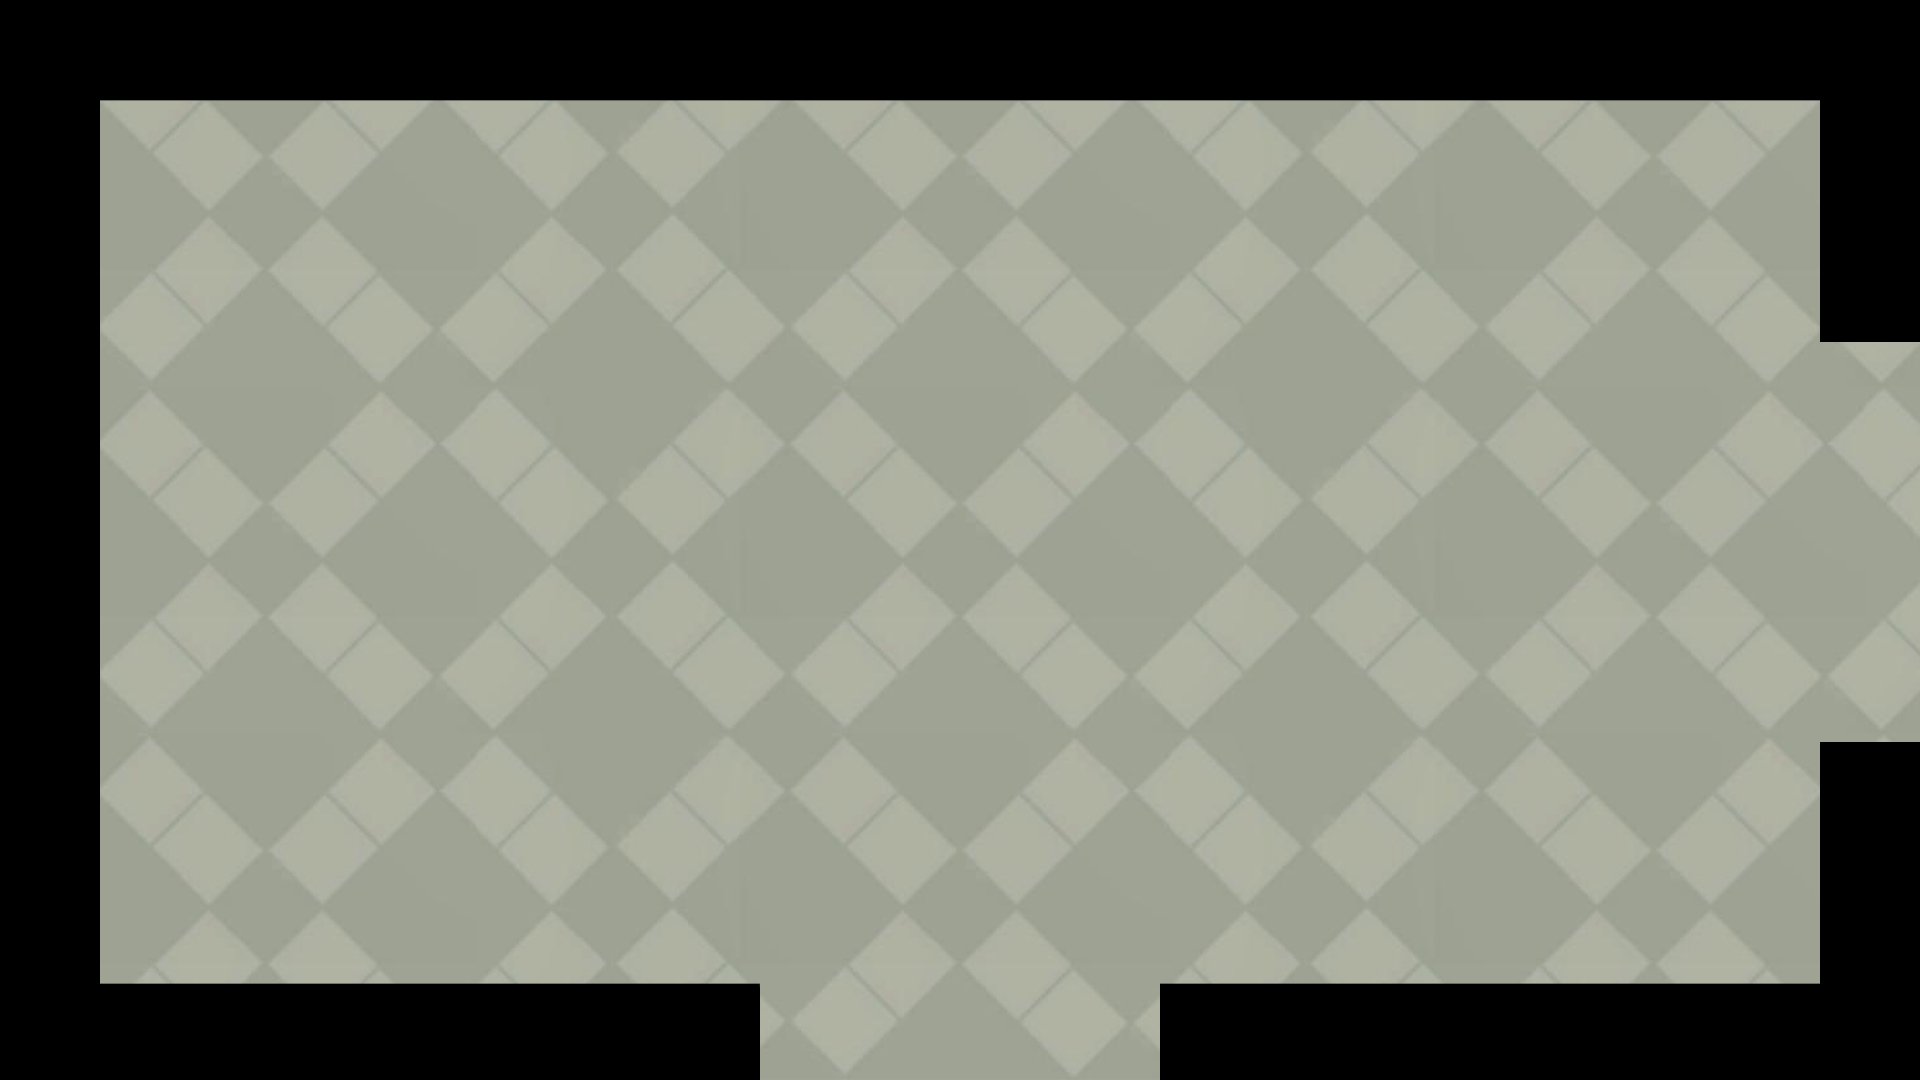
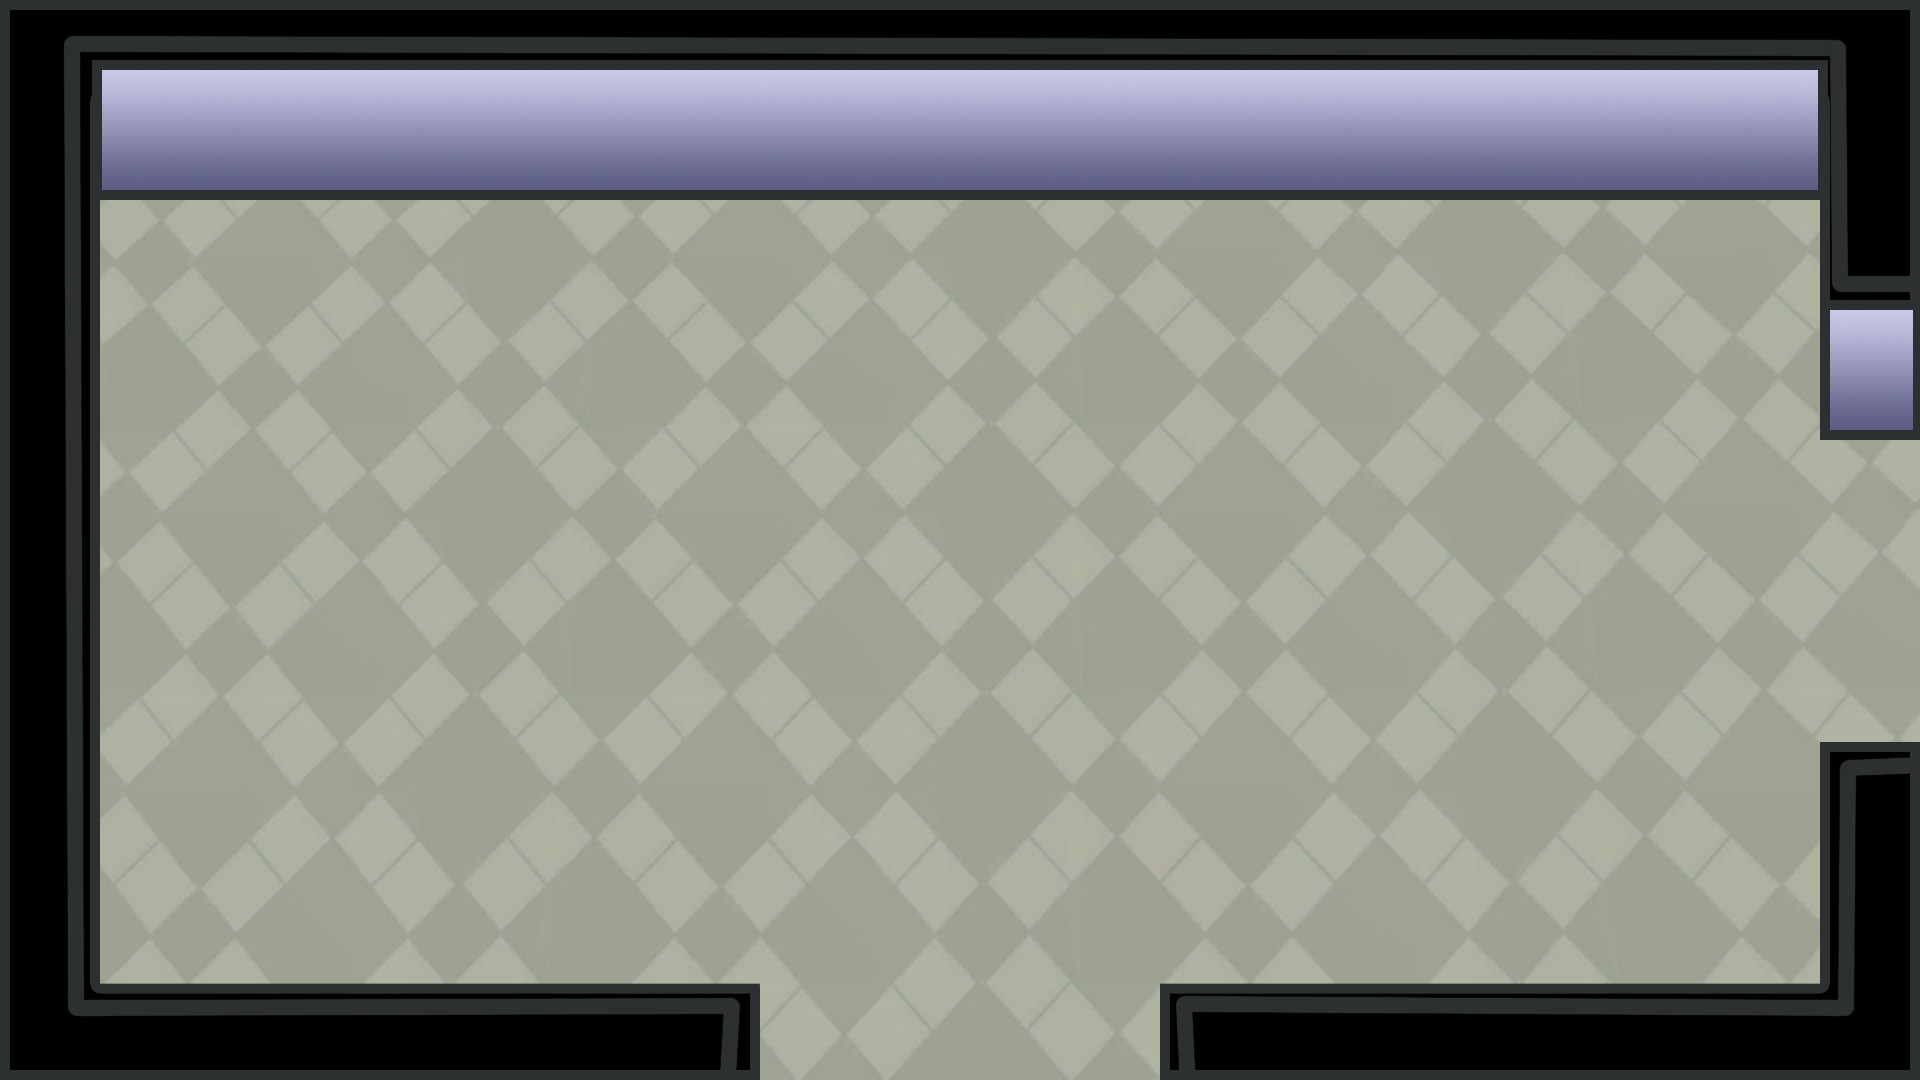
moving beetwen rooms

Changed region(s): [[0.0, 0.0, 1.0, 1.0], [0.5938, 0.6722, 1.0, 1.0]]

diff --git a/BTR_0_0_1/Map.cpp b/BTR_0_0_1/Map.cpp
@@ -2,26 +2,58 @@
 
 using json = nlohmann::json;
 
-Map::Map() {
-
+Map::Map(int map_nr)
+{
+	this->mapNO = map_nr;
 	// INFO ABOUT CONSTRUCTOR
-	std::cout << "DEFAULT CONSTRUCTOR(ONLY ONE) OF MAP CLASS HAS BEEN COLD" << std::endl;
+	std::cout << "OVERLOAD CONSTRUCTOR OF MAP CLASS HAS BEEN COLD" << std::endl;
 
+	this->updateMap();
+	
+}
+
+Map::Map()
+{
+	std::cout << "DEFAULT CONSTRUCTOR OF MAP CLASS HAS BEEN COLD" << std::endl;
+
+}
+
+Map::~Map()
+{
+}
+
+void Map::updateMap()
+{
 	std::ifstream i("config/assetsConfig.json");
 	json j = j.parse(i);
 
-	j.at("mapObjects").get_to(this->obiectsINFO);
-	//std::cout << this->obiectsINFO[0][0] << std::endl;
+	std::string mapPath = "mapObjects" + std::to_string(this->mapNO);
+
+
+	/* EACH TAB CONTAINS SUCH INFO
+	 * t[0]	X-CORD,
+	 * t[1]	Y-CORD,
+	 * t[2]	X-SIZE,
+	 * t[3]	Y-SIZE,
+	 * t[4]	OBJECT-ID
+	 * t[5] OBJECT-COLOR-R
+	 * t[6] OBJECT-COLOR-G
+	 * t[7] OBJECT-COLOR-B
+	 * t[8] OBJECT-IS-WALL
+	 * t[9] OBJECT-ID-NEXT-PICTURE ( This must be NO of el. in pathsArrGame arr in json (counted from 0))
+	 * t[10] PLAYER NEXT POS X
+	 * t[10] PLAYER NEXT POS Y
+	 */
+	j.at(mapPath).get_to(this->obiectsINFO);
+
+
+
 
 	for (std::vector<int> tab : this->obiectsINFO) {
 		sf::RectangleShape tmpShape;
 		tmpShape.setPosition(sf::Vector2f(tab[0], tab[1]));
 		tmpShape.setSize(sf::Vector2f(tab[2], tab[3]));
-		tmpShape.setFillColor(sf::Color(100, 10, 250));
+		tmpShape.setFillColor(sf::Color(tab[5], tab[6], tab[7]));
 		this->mapObjects.push_back(tmpShape);
 	}
-}
-
-Map::~Map()
-{
 }

diff --git a/BTR_0_0_1/GameState.cpp b/BTR_0_0_1/GameState.cpp
@@ -7,7 +7,7 @@ GameState::GameState()
 }
 
 GameState::GameState(sf::RenderWindow* target)
-	:States(2), Map()
+	:States(2), Map(0)
 {
 	std::cout << "OVERLADED CONSTRUCTOR OF GAMESTATE HAS BEEN COLD" << "\n";
 	this->window = target;
@@ -45,6 +45,7 @@ void GameState::update()
 	sf::FloatRect playerNext = this->playerSprite.getGlobalBounds();
 	playerNext.left += movement.x;
 	playerNext.top += movement.y;
+	int shape_nr = 0;
 
 	for (auto& shape : this->mapObjects)
 	{
@@ -55,16 +56,37 @@ void GameState::update()
 		{
 			// tutaj akcje z kolizjami zwiazane
 			std::cout << "COLISION" << std::endl;
+			/* CHEEK IF COLISION WITH WALL*/
+			if (this->obiectsINFO[shape_nr][8])
+			{
+				std::cout << "WALL" << std::endl;
+				this->imgStart = this->obiectsINFO[shape_nr][9];
+				this->renderStateNO();
+				this->playerSprite.setPosition(sf::Vector2f(
+					(float)this->obiectsINFO[shape_nr][10],
+					(float)this->obiectsINFO[shape_nr][11]
+				));
+
+				// SWITH to render obiect of new map
+				this->mapNO = obiectsINFO[shape_nr][9];
+				while (!this->mapObjects.empty())
+					this->mapObjects.pop_back();
+				this->updateMap();
+
+				// THIS CLEARS VECTOR FROM OLD BMT 
+				this->textures.pop_front();
+			}
 			movement.x *= (0.0);
 			movement.y *= (0.0);
 			std::cout << movement.x << std::endl;
 			this->movePlayer(movement);
 			return;
 		}
-
+		shape_nr++;
 	}
 	if(movement.y || movement.x)
 	this->movePlayer(movement);
+
 }
 
 void GameState::render()

diff --git a/BTR_0_0_1/TexturesContainer.cpp b/BTR_0_0_1/TexturesContainer.cpp
@@ -9,18 +9,22 @@ TexturesContainer::TexturesContainer()
 
 TexturesContainer::TexturesContainer(int state)
 {
+	this->imgStart = 0;
+
 	std::ifstream d("config/assetsConfig.json");
 	json j = j.parse(d);
 
 	this->updateCTR(state);
 
-	for (int i = 0; i < this->imagesEnd; i++)
-	{
+	this->renderStateNO();
+}
+
+void TexturesContainer::renderStateNO()
+{
 		sf::Texture tmp;
-		tmp.loadFromFile(this->paths[i]);
+		tmp.loadFromFile(this->paths[this->imgStart]);
 		this->textures.push_back(tmp);
 
-	}
 }
 
 TexturesContainer::~TexturesContainer()
@@ -38,7 +42,7 @@ void TexturesContainer::updateCTR(int state)
 		j.at("pathsArrMenu").get_to(this->paths);
 		this->imagesEnd = j.at("menuElements");
 		break;
-	case 2:
+	case 2: // SPAWN GAME STATE TEXTURES
 		j.at("pathsArrGame").get_to(this->paths);
 		this->imagesEnd = j.at("gameElements");
 		break;

diff --git a/BTR_0_0_1/TexturesContainer.h b/BTR_0_0_1/TexturesContainer.h
@@ -19,9 +19,11 @@ class TexturesContainer
 public:
 	TexturesContainer();
 	TexturesContainer(int);
+	void renderStateNO();
 	~TexturesContainer();
 protected:
 	int imagesEnd;
+	int imgStart;
 	std::vector<std::string> paths;
 	std::list<sf::Texture> textures;
 	std::list<sf::Sprite> spritees;

diff --git a/BTR_0_0_1/Map.h b/BTR_0_0_1/Map.h
@@ -4,11 +4,18 @@
 class Map
 {
 protected:
+	Map(int);
 	Map();
 	~Map();
+
+	void updateMap();
 protected:
 	std::vector<std::vector<int>> obiectsINFO;
 	std::list<sf::RectangleShape> mapObjects;
+
+	std::vector<std::vector<int>> objectInfoArr2I;
+
+	int mapNO;
 };
 
 
